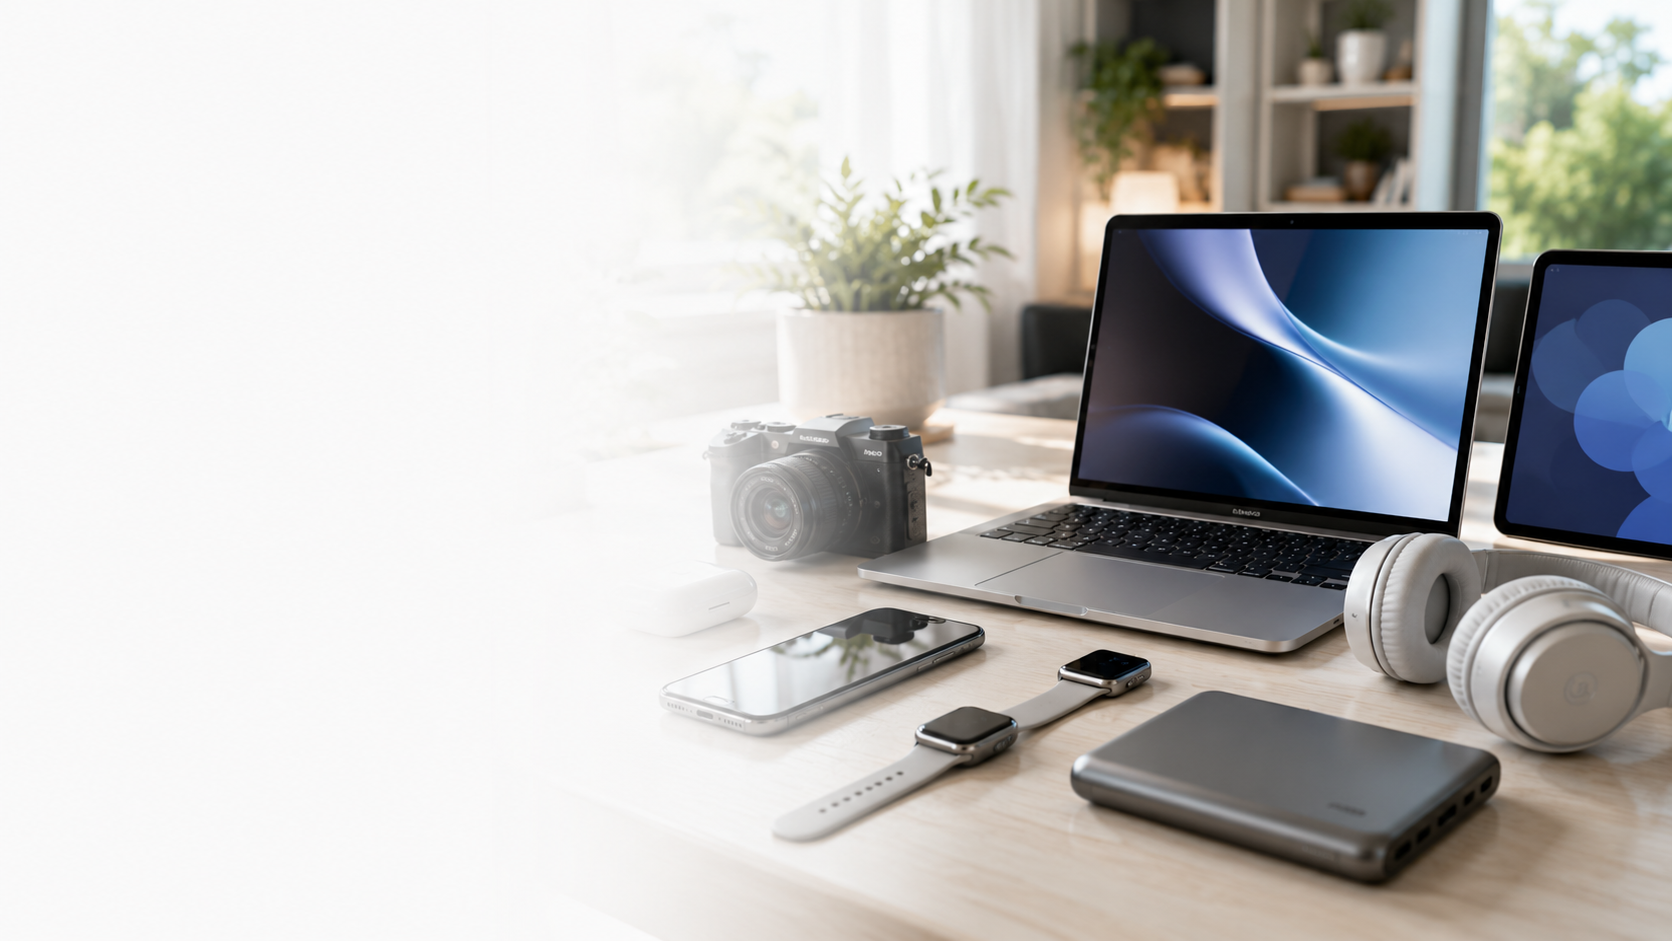
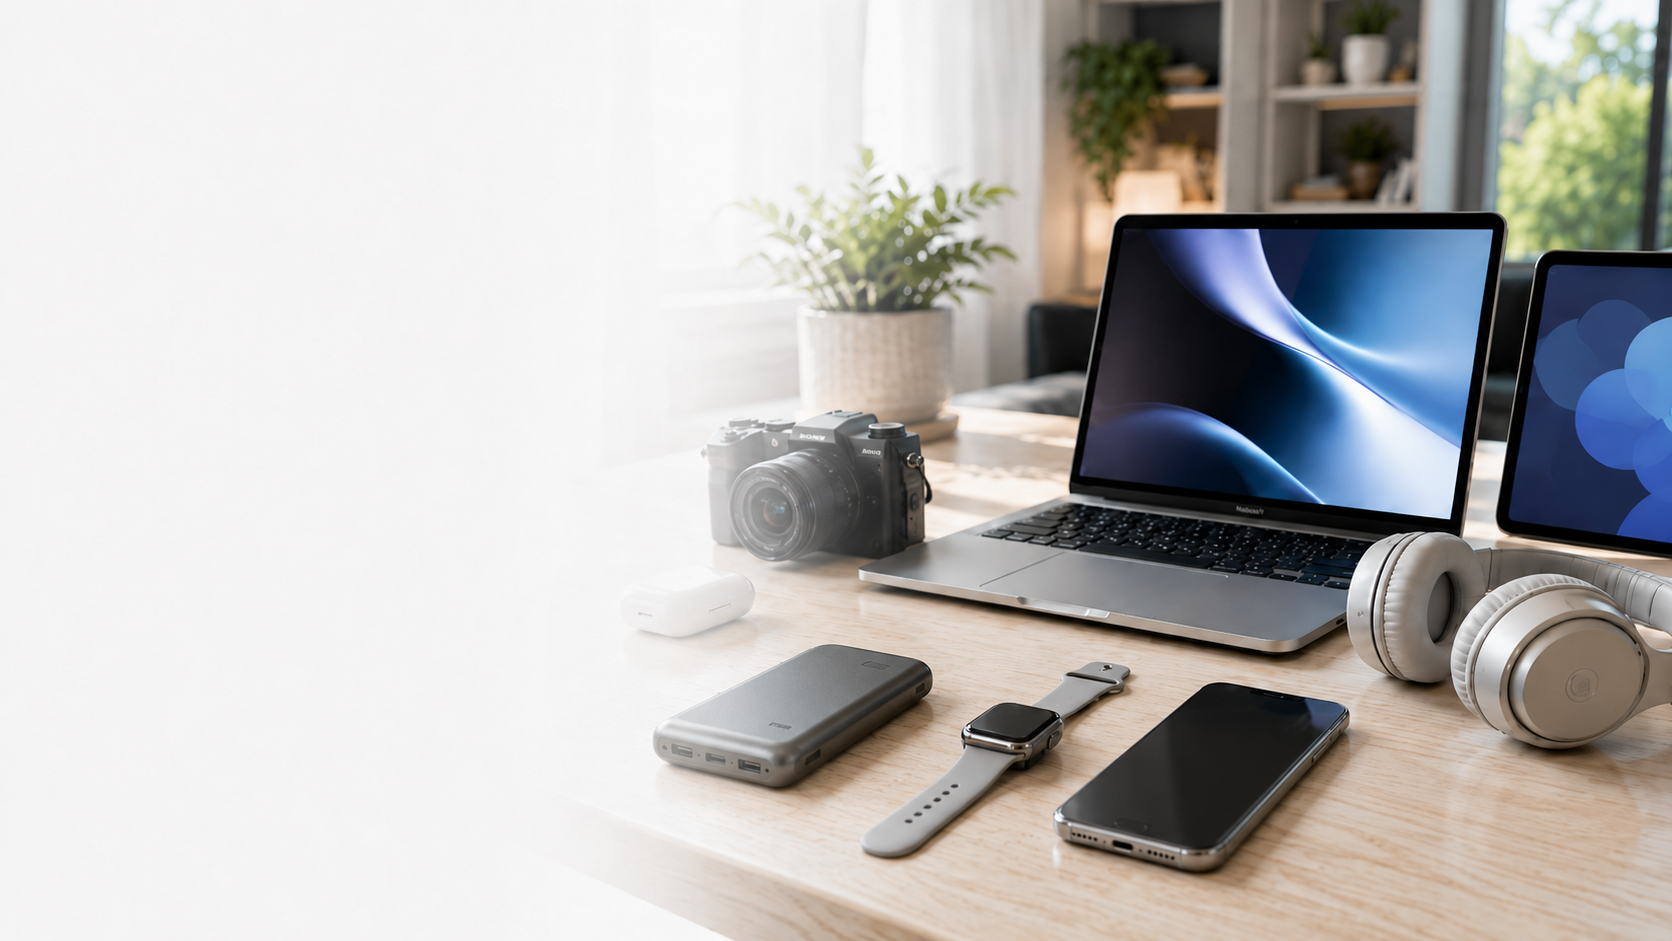
Update electronics image and garden seeds

diff --git a/src/components/listings/ListingPages.tsx b/src/components/listings/ListingPages.tsx
@@ -644,6 +644,7 @@ const subcategoryDescriptions: Record<string, Record<string, string>> = {
   "sad-i-rasteniya": {
     "Цветы и саженцы": "Цветы, декоративные растения, плодовые саженцы и предложения для озеленения.",
     Рассада: "Рассада овощей, зелени, цветов и сезонные предложения для дачи и огорода.",
+    Семена: "Семена овощей, зелени, цветов и сидератов для посадки в саду, теплице или на огороде.",
     Овощи: "Помидоры, огурцы, кабачки, морковь, свекла, капуста и другие овощные культуры для огорода.",
     Зелень: "Укроп, петрушка, базилик, шпинат и другая зелень для посадки, выращивания и продажи.",
     Корнеплоды: "Репа, редька, морковь, свекла и другие корнеплоды для посадки и урожая.",
@@ -1258,6 +1259,7 @@ export function slugifySubcategory(name: string) {
     "Ремонт квартир": "remont-kvartir",
     Сантехника: "santehnika",
     "Цветы и саженцы": "tsvety-i-sazhentsy",
+    Семена: "semena",
     "Выкройки и рукоделие": "vykroyki-i-rukodelie",
     Клининг: "klining",
     Рассада: "rassada",

diff --git a/src/lib/data.ts b/src/lib/data.ts
@@ -56,6 +56,7 @@ export const categories: Category[] = [
     children: [
       "Цветы и саженцы",
       "Рассада",
+      "Семена",
       "Овощи",
       "Зелень",
       "Корнеплоды",
